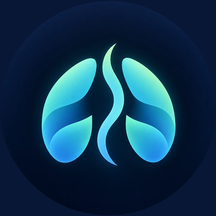
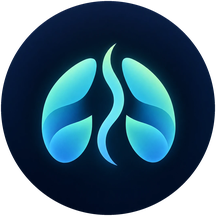
Релиз 1.0.1 для AppGallery: релизная сборка, название Breath Trainer, материалы магазина
- npm run build:release — подписанный .app (продукт release, режим release)
- версия 1.0.1 (1000001); английское название на часах — Breath Trainer (должно совпадать с магазином)
- store/: иконка 216 × 216 на прозрачном фоне, квадратные скриншоты 840 × 840 (ru, en),
  тексты на 6 языках (краткое описание на китайском — до 17 символов)

Changed region(s): [[0.0, 0.0, 1.0, 1.0]]

diff --git a/store/listing.md b/store/listing.md
@@ -1,22 +1,22 @@
 # Материалы для AppGallery
 
-- Пакет: `com.konnov.breathtrainer`, версия 1.0.0 (1000000)
+- Пакет: `com.konnov.breathtrainer`, версия 1.0.1 (1000001)
 - Устройство: HUAWEI WATCH FIT 4 Pro и другие часы Lite Wearable с прямоугольным экраном 408 × 480
 - Категория: Здоровье и фитнес
 - Цена: бесплатно; без рекламы, без встроенных покупок, без сбора данных
 - Возрастной рейтинг: 3+
 - Политика конфиденциальности: https://alekfletch.github.io/breath_trainer/privacy/
 - Разработчик: AKdev
-- Иконка магазина: `store/icon-216.png` (216 × 216)
+- Иконка магазина: `store/icon-216.png` (216 × 216, круг на прозрачном фоне — совпадает с иконкой пакета)
 - Скриншоты: `store/screenshots/<язык>/` (408 × 480)
 
-Название в магазине — «Дыхание: тренажёр» / «Breath Trainer»: короткие «Дыхание» и «Breathe» на часах остаются как есть, но в магазине такие общие названия скорее всего заняты.
+AGC требует, чтобы название в магазине совпадало с названием в пакете (`resources/*/element/string.json`, MainAbility_label): английское — Breath Trainer, остальные — как на часах.
 
 ---
 
 ## Русский (ru)
 
-**Название:** Дыхание: тренажёр
+**Название:** Дыхание
 
 **Краткое описание:** Дыхательные упражнения на часах: шарик, вибрация в такт, статистика.
 
@@ -34,7 +34,7 @@
 
 Без рекламы, без регистрации, без интернета. Приложение не собирает никаких данных.
 
-**Что нового (1.0.0):** Первая версия.
+**Что нового (1.0.1):** Первая версия.
 
 ---
 
@@ -58,13 +58,13 @@ Calm breathing right on your wrist. The ball grows as you inhale and shrinks as 
 
 No ads, no sign-up, no internet. The app collects no data.
 
-**What's new (1.0.0):** First release.
+**What's new (1.0.1):** First release.
 
 ---
 
 ## Español (es)
 
-**Nombre:** Respiración: entrenador
+**Nombre:** Respirar
 
 **Descripción breve:** Ejercicios de respiración en tu reloj: bola guía, vibración y resultados.
 
@@ -82,13 +82,13 @@ Respiración tranquila en tu muñeca. La bola crece al inhalar y se encoge al ex
 
 Sin anuncios, sin registro, sin internet. La app no recopila ningún dato.
 
-**Novedades (1.0.0):** Primera versión.
+**Novedades (1.0.1):** Primera versión.
 
 ---
 
 ## Deutsch (de)
 
-**Name:** Atemtrainer
+**Name:** Atmen
 
 **Kurzbeschreibung:** Atemübungen auf der Uhr: Leitkugel, Vibration im Takt, Ergebnisse.
 
@@ -106,13 +106,13 @@ Ruhiges Atmen direkt am Handgelenk. Die Kugel wächst beim Einatmen und schrumpf
 
 Keine Werbung, keine Anmeldung, kein Internet. Die App erhebt keine Daten.
 
-**Neu in 1.0.0:** Erste Version.
+**Neu in 1.0.1:** Erste Version.
 
 ---
 
 ## Français (fr)
 
-**Nom :** Respiration : coach
+**Nom :** Respirer
 
 **Description courte :** Exercices de respiration sur votre montre : bulle guide, vibrations, bilan.
 
@@ -130,13 +130,13 @@ Une respiration calme, directement au poignet. La bulle grandit à l'inspiration
 
 Sans publicité, sans inscription, sans internet. L'application ne collecte aucune donnée.
 
-**Nouveautés (1.0.0) :** Première version.
+**Nouveautés (1.0.1) :** Première version.
 
 ---
 
 ## 中文 (zh)
 
-**名称：** 呼吸训练
+**名称：** 呼吸
 
 **一句话简介：** 手表上的呼吸练习：引导圆球、节奏振动、练习结果。
 
@@ -154,4 +154,4 @@ Sans publicité, sans inscription, sans internet. L'application ne collecte aucu
 
 无广告、无需注册、无需联网。应用不收集任何数据。
 
-**新版本特性（1.0.0）：** 首个版本。
+**新版本特性（1.0.1）：** 首个版本。
